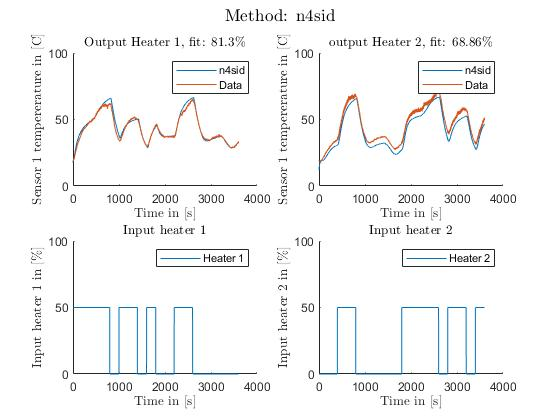
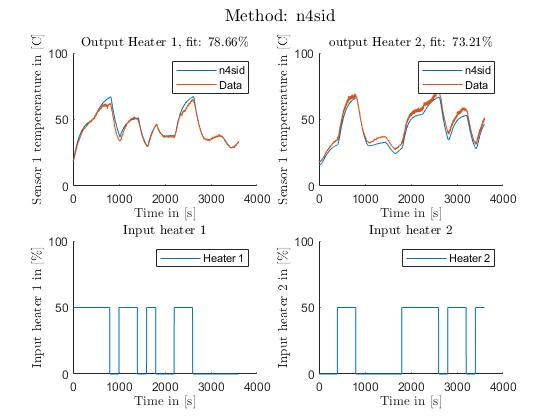
3rd order n4sid!

diff --git a/Code/Identification.m b/Code/Identification.m
@@ -1,7 +1,7 @@
 clear; close all
 set(0,'defaulttextInterpreter','latex') 
 %{
-This file serves as the main file for the integration project.  
+This file serves as the main file for the identification part of the integration project.  
 
 Written by:
     Pim de Bruin 
@@ -18,14 +18,15 @@ addpath('System_Identification/Models')
 addpath('Functions')
 
 % ---- Settings: ----
-Identification = 0;         % Identify models?
-Validation = 1;             % Validate models?
+identification = 1;         % Identify models?
+Validation = 0;             % Validate models?
     maken4sid   = 1;        % Use N4SID?
     makeFDSID   = 1;        % Use FDSID?
-    makeGreyBox = 1;        % Use Grey Box?
+    makeGreyBox = 0;        % Use Grey Box?
 makeFigure = 1;             % Plot the result?
     
 system = 'mimo';            % siso 1, siso 2, mimo?
+
 
 % Store chosen options in cell array for plotting later. 
 k = 1;
@@ -41,7 +42,7 @@ for i = {'maken4sid','makeFDSID','makeGreyBox'}
 end
 
 %% ==== IDENTIFICATION: ====
-if Identification
+if identification
     % ---- Load identifiation data: ----
     disp('Select identification data file')
     [file,path]= uigetfile('Experiments/*.mat');
@@ -57,7 +58,7 @@ if Identification
 
     % pre processing ====
         % bandwidth is about 7e-4 Hz.
-    idd_i.y = lowpass(idd_i.y,5e-3,1);
+    %idd_i.y = lowpass(idd_i.y,5e-3,1);
 
     % ---- Arrays to store simulation data: ----
     ydata = [];

diff --git a/Code/Control.m b/Code/Control.m
@@ -1,0 +1,58 @@
+clear; close all
+set(0,'defaulttextInterpreter','latex') 
+%{
+This file serves as the main file for the control part of the integration project.  
+
+Written by:
+    Pim de Bruin 
+    Marco Delgado Gosalvez
+
+For the course:
+    SC42035 Integration Project Systems and Control (2019/20 Q4)
+%}
+
+%% ==== SETUP: ====
+% ---- Accessing folders: ----
+addpath('System_Identification')
+addpath('System_Identification/Models')
+addpath('Functions')
+
+% ---- Loading models: ----
+n4sid_file = dir('.\System_Identification\Models\FINAL\n4sid*.mat');
+fdsid_file = dir('.\System_Identification\Models\FINAL\fdsid*.mat');
+GreyBox_file = dir('.\System_Identification\Models\FINAL\GreyBox*.mat');
+
+load(n4sid_file.name)
+load(fdsid_file.name)
+load(GreyBox_file.name)
+
+% ---- Get workable models: ----
+n4sid = pade(ss(sys_n4sid),1);
+fdsid = minreal(ss(sys_n4sid));
+% still need to linearise the greybox model! 
+
+
+
+
+
+G = n4sid;
+Wu = 1;
+Wt = 1;
+Wp = 1;
+
+P = [0 Wu;
+    0 G*Wu];
+    
+
+
+
+
+
+
+
+
+%{
+ncont = 2; 
+nmeas = 2; 
+[K,CL,gamma] = hinfsyn(P,nmeas,ncont);
+%}
